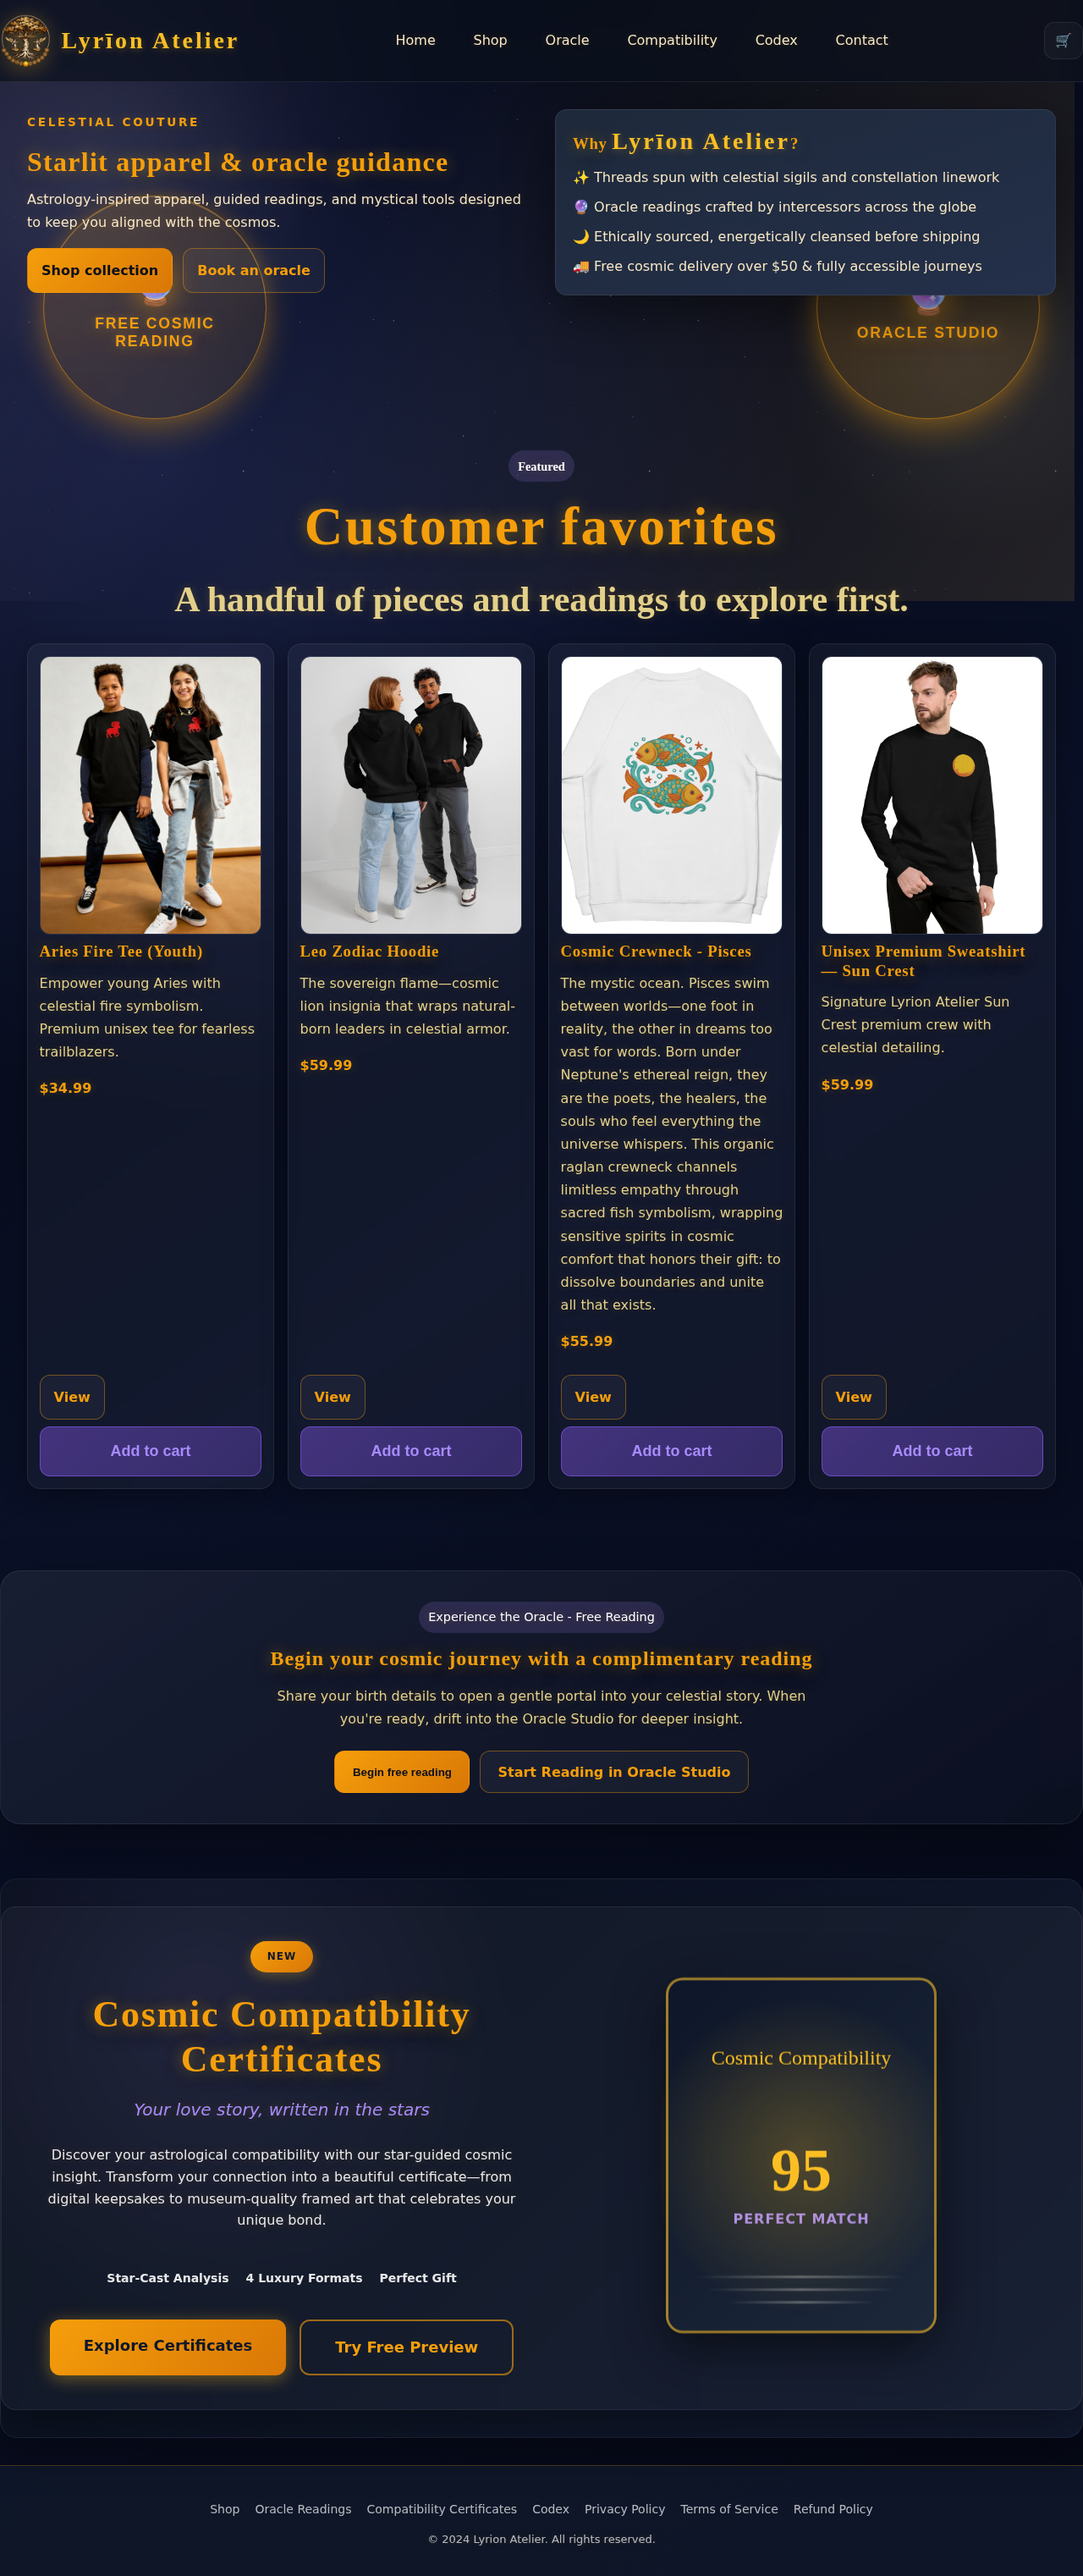
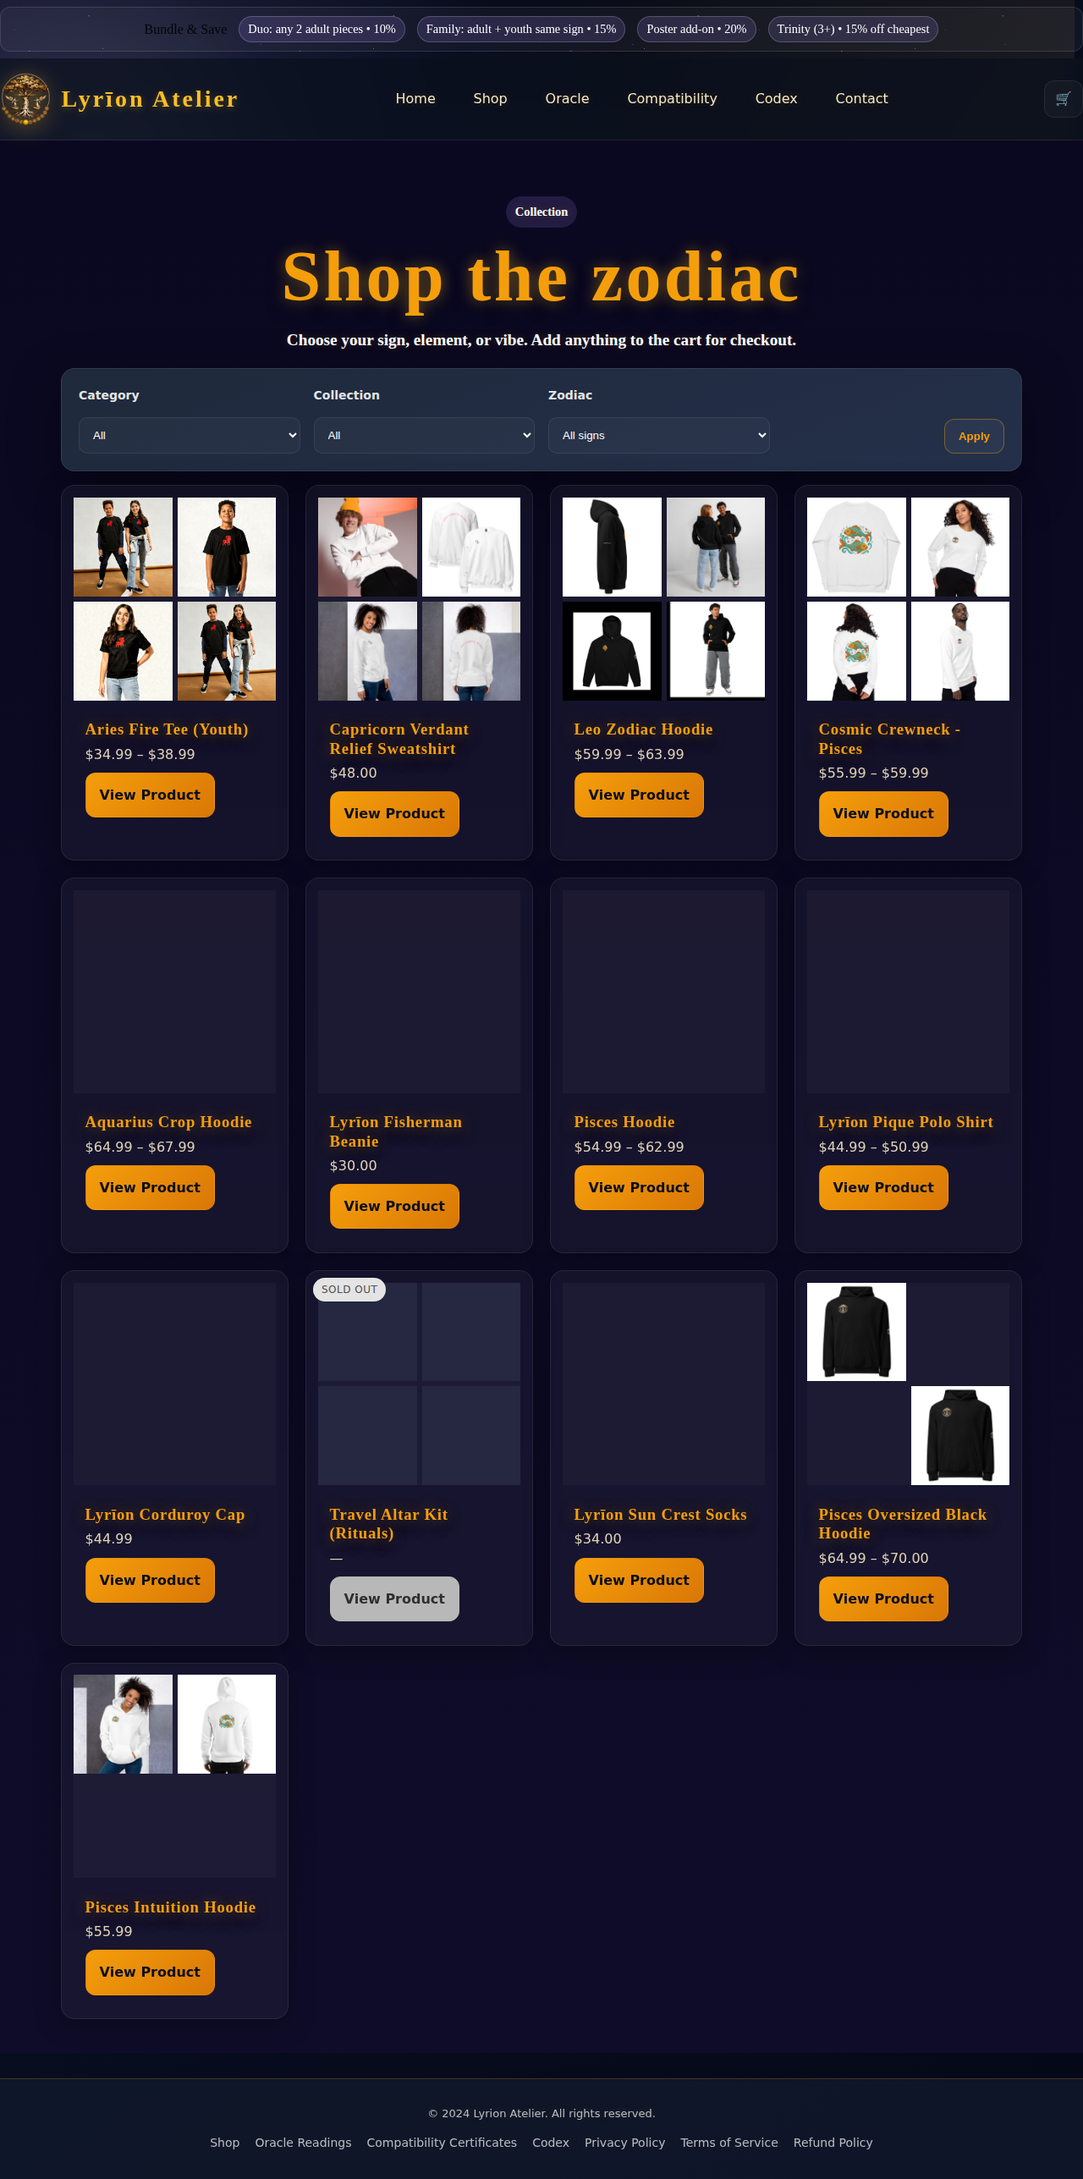
feat: improve product card galleries

diff --git a/assets/index.js b/assets/index.js
@@ -74,33 +74,87 @@ function renderFeaturedProducts() {
     return;
   }
 
+  const pickGallery = (product) => {
+    const seeds = [];
+    if (product.image) seeds.push(product.image);
+    if (Array.isArray(product.images)) seeds.push(...product.images);
+    else if (product.images && typeof product.images === 'object') {
+      if (product.images.card) seeds.push(product.images.card);
+      if (Array.isArray(product.images.gallery)) seeds.push(...product.images.gallery);
+    }
+    const normalized = seeds.filter(Boolean).map((src) => String(src).replace('_thumb', ''));
+    if (!normalized.length) normalized.push('/assets/catalog/placeholder.webp');
+    while (normalized.length < 4) normalized.push(normalized[normalized.length % normalized.length] || normalized[0]);
+    return normalized.slice(0, 4);
+  };
+
   featured.forEach(product => {
     const title = product.name || product.title || product.slug || 'Product';
     const description = product.description || product.desc || '';
     const displayPrice = extractPrice(product);
-    const imageSrc = product.image || (Array.isArray(product.images) ? product.images[0] : null);
     const canAddProduct = canAddToCart && product?.id != null && Number.isFinite(displayPrice);
-    const card = document.createElement('div');
+    const images = pickGallery(product);
+    const card = document.createElement('article');
     card.className = 'product-card';
-    card.innerHTML = `
-      <div class="product-image">
-        ${imageSrc ? `<img src="${imageSrc}" alt="${title}" loading="lazy">` : `<div class="placeholder">✨</div>`}
-      </div>
-      <div>
-        <h3>${title}</h3>
-        <p class="muted">${description}</p>
-        <p class="price">$${displayPrice.toFixed(2)}</p>
-      </div>
-      <div class="button-row tight">
-        <a class="btn btn-outline" href="${detailUrl(product)}">View</a>
-        <button class="btn btn-primary add-to-cart-btn" type="button" ${canAddProduct ? '' : 'disabled'}>Add to cart</button>
-      </div>
-    `;
+    const media = document.createElement('div');
+    media.className = 'product-card__media media';
+    const gridEl = document.createElement('div');
+    gridEl.className = 'product-card__media-grid';
+    let mediaReady = false;
+    const markReady = () => {
+      if (mediaReady) return;
+      mediaReady = true;
+      card.classList.add('media-ready');
+    };
+    images.forEach((src, idx) => {
+      const img = document.createElement('img');
+      img.src = src;
+      img.alt = `${title} image ${idx + 1}`;
+      img.loading = 'lazy';
+      img.decoding = 'async';
+      img.onerror = () => { if (img.src !== '/assets/catalog/placeholder.webp') img.src = '/assets/catalog/placeholder.webp'; };
+      img.onload = markReady;
+      gridEl.appendChild(img);
+    });
+    media.appendChild(gridEl);
+
+    const body = document.createElement('div');
+    body.className = 'product-card__body';
+    const heading = document.createElement('h3');
+    heading.textContent = title;
+    const desc = document.createElement('p');
+    desc.className = 'muted';
+    desc.textContent = description;
+    const price = document.createElement('p');
+    price.className = 'price product-card__price';
+    price.textContent = Number.isFinite(displayPrice) ? `$${displayPrice.toFixed(2)}` : 'Price unavailable';
+
+    const actions = document.createElement('div');
+    actions.className = 'product-card__actions button-row tight';
+    const viewLink = document.createElement('a');
+    viewLink.className = 'btn btn-outline';
+    viewLink.href = detailUrl(product);
+    viewLink.textContent = 'View';
+    const addButton = document.createElement('button');
+    addButton.className = 'btn btn-primary add-to-cart-btn';
+    addButton.type = 'button';
+    addButton.textContent = 'Add to cart';
+    if (!canAddProduct) addButton.disabled = true;
+
+    actions.append(viewLink, addButton);
+    body.append(heading, desc, price, actions);
+    card.append(media, body);
+    card.addEventListener('click', (e) => {
+      if (e.target.closest('button, a')) return;
+      window.location.href = detailUrl(product);
+    });
     grid.appendChild(card);
 
-    const addButton = card.querySelector('.add-to-cart-btn');
     if (addButton && canAddProduct) {
-      addButton.addEventListener('click', () => addToCart(product.id));
+      addButton.addEventListener('click', (ev) => {
+        ev.stopPropagation();
+        addToCart(product.id);
+      });
     }
   });
 }

diff --git a/js/shop-page.js b/js/shop-page.js
@@ -242,7 +242,13 @@ import { formatPrice, currencySymbol } from './price-utils.js';
       null;
     const canBuy = price?.cents !== null && !!firstVariantId;
     const image = normalizedImages.find(isUsableImage) || resolveProductImage({ ...p, slug, title }, imageMap, zodiacMap);
-    const images = normalizedImages.length ? normalizedImages : (image ? [image] : []);
+    const images = (() => {
+      const base = normalizedImages.length ? normalizedImages : (image ? [image] : []);
+      const ready = base.filter(Boolean).map(fullRes);
+      if (!ready.length) ready.push(FALLBACK);
+      while (ready.length < 4) ready.push(ready[ready.length % ready.length] || FALLBACK);
+      return ready;
+    })();
     return {
       ...p,
       id: p.id || p.sync_product_id || slug,
@@ -324,7 +330,7 @@ import { formatPrice, currencySymbol } from './price-utils.js';
 
   const createCard = (p) => {
     const slug = p.slug || slugify(p.title || p.name || '');
-    const viewUrl = `/shop/${slug}.html`;
+    const viewUrl = `/product.html?slug=${encodeURIComponent(slug)}`;
     const variant = p.defaultVariant || pickVariant(p);
     const hasPriceData = Number.isFinite(p.price) || Number.isFinite(p.priceCents) || !!p.priceLabel;
     const basePrice = hasPriceData ? null : normalizePrice(p);
@@ -362,7 +368,13 @@ import { formatPrice, currencySymbol } from './price-utils.js';
     const priceDisplay = priceRange || formatPrice(Number.isFinite(priceCents) ? priceCents : priceValue, fallbackLabel);
     const primaryImage = Array.isArray(p.images) ? p.images[0] : null;
     const resolvedImage = isUsableImage(primaryImage) ? primaryImage : resolveProductImage(p, cachedImageMap, cachedZodiacMap);
-    const imgSrc = fullRes(isUsableImage(resolvedImage) ? resolvedImage : FALLBACK);
+    const galleryImages = (() => {
+      const seeds = Array.isArray(p.images) && p.images.length ? p.images : [resolvedImage || FALLBACK];
+      const normalized = seeds.filter(Boolean).map(fullRes);
+      if (!normalized.length) normalized.push(FALLBACK);
+      while (normalized.length < 4) normalized.push(normalized[normalized.length % normalized.length] || FALLBACK);
+      return normalized.slice(0, 4);
+    })();
     const soldOut = (p?.meta?.soldOut ?? p?.soldOut) === true;
 
     const card = document.createElement('article');
@@ -376,19 +388,28 @@ import { formatPrice, currencySymbol } from './price-utils.js';
 
     const media = document.createElement('div');
     media.className = 'product-card__media media';
-    const img = document.createElement('img');
-    img.src = imgSrc || FALLBACK;
-    img.alt = p.title || p.name || 'Product image';
-    img.loading = 'lazy';
-    img.decoding = 'async';
-    img.onerror = () => { if (img.src !== FALLBACK) img.src = FALLBACK; };
-    img.onload = () => {
-      img.classList.remove('placeholder', 'blur');
+    const grid = document.createElement('div');
+    grid.className = 'product-card__media-grid';
+    let ready = false;
+    const markReady = () => {
+      if (ready) return;
+      ready = true;
+      grid.classList.remove('placeholder', 'blur');
       media.classList.remove('placeholder', 'blur');
       card.classList.add('media-ready');
       hideLoader();
     };
-    media.appendChild(img);
+    galleryImages.forEach((src, idx) => {
+      const img = document.createElement('img');
+      img.src = src || FALLBACK;
+      img.alt = `${p.title || p.name || 'Product image'} ${idx + 1}`;
+      img.loading = 'lazy';
+      img.decoding = 'async';
+      img.onerror = () => { if (img.src !== FALLBACK) img.src = FALLBACK; };
+      img.onload = markReady;
+      grid.appendChild(img);
+    });
+    media.appendChild(grid);
 
     const body = document.createElement('div');
     body.className = 'product-card__body';

diff --git a/tests/homepage.spec.ts b/tests/homepage.spec.ts
@@ -80,8 +80,9 @@ test.describe('homepage featured products', () => {
     await expect(featuredCard).toBeVisible();
     await expect(featuredCard.locator('.price')).toContainText('$34.99');
 
-    const image = featuredCard.locator('img');
-    await expect(image).toHaveAttribute('src', /youth-aries-fire-tee/i);
+    const images = featuredCard.locator('img');
+    expect(await images.count()).toBeGreaterThanOrEqual(4);
+    await expect(images.first()).toHaveAttribute('src', /youth-aries-fire-tee/i);
   });
 
   test('surfaces Leo Zodiac Hoodie in featured/bestseller grid', async ({ page }) => {
@@ -89,8 +90,9 @@ test.describe('homepage featured products', () => {
     const featuredCard = page.locator('#featured-grid .product-card', { hasText: 'Leo Zodiac Hoodie' });
     await expect(featuredCard).toBeVisible();
     await expect(featuredCard.locator('.price')).toContainText('$59.99');
-    const image = featuredCard.locator('img');
-    await expect(image).toHaveAttribute('src', /leo-zodiac-hoodie/i);
+    const images = featuredCard.locator('img');
+    expect(await images.count()).toBeGreaterThanOrEqual(4);
+    await expect(images.first()).toHaveAttribute('src', /leo-zodiac-hoodie/i);
   });
 
   test('promotes Cosmic Crewneck - Pisces as the third featured card', async ({ page }) => {
@@ -98,14 +100,19 @@ test.describe('homepage featured products', () => {
     const thirdCard = page.locator('#featured-grid .product-card').nth(2);
     await expect(thirdCard).toContainText('Cosmic Crewneck - Pisces');
     await expect(thirdCard.locator('.price')).toContainText('$55.99');
-    const image = thirdCard.locator('img');
-    await expect(image).toHaveAttribute('src', /cosmic-crewneck-pisces/i);
+    const images = thirdCard.locator('img');
+    expect(await images.count()).toBeGreaterThanOrEqual(4);
+    await expect(images.first()).toHaveAttribute('src', /cosmic-crewneck-pisces/i);
   });
 
   test('shows four featured products on homepage', async ({ page }) => {
     await page.goto(`http://localhost:${PORT}/`, { waitUntil: 'networkidle' });
     const featuredCards = page.locator('#featured-grid .product-card');
     await expect(featuredCards).toHaveCount(4);
+    const imageCounts = await featuredCards.evaluateAll((cards) =>
+      cards.map((card) => card.querySelectorAll('img').length)
+    );
+    expect(imageCounts.every((count) => count >= 4)).toBeTruthy();
   });
 
   test('opens Cosmic Crewneck details from homepage view action', async ({ page }) => {

diff --git a/js/shop-grid.js b/js/shop-grid.js
@@ -50,9 +50,19 @@ function renderCard(product) {
   const altText = product.title || product.name || 'Lyrion piece';
   const variant = pickVariant(product);
   const priceNum = resolvePrice(variant) ?? resolvePrice(product);
-  const imgSrc = pickImage(product, __IMAGE_MAP || {});
   const slug = product.slug || slugify(product.title || product.name || '');
-  const viewUrl = `/shop/${slug}.html`;
+  const viewUrl = `/product.html?slug=${encodeURIComponent(slug)}`;
+  const galleryImages = (() => {
+    const seeds = [];
+    if (product.image) seeds.push(product.image);
+    if (Array.isArray(product.images)) seeds.push(...product.images);
+    const mapped = pickImage(product, __IMAGE_MAP || {});
+    if (mapped) seeds.push(mapped);
+    const normalized = seeds.filter(Boolean);
+    if (!normalized.length) normalized.push(FALLBACK);
+    while (normalized.length < 4) normalized.push(normalized[normalized.length % normalized.length] || FALLBACK);
+    return normalized.slice(0, 4);
+  })();
 
   const card = document.createElement('article');
   card.className = 'product-card';
@@ -61,18 +71,27 @@ function renderCard(product) {
 
   const media = document.createElement('div');
   media.className = 'product-card__media media';
-  const img = document.createElement('img');
-  img.loading = 'lazy';
-  img.decoding = 'async';
-  img.alt = altText;
-  img.src = imgSrc;
-  img.onerror = () => { if (img.src !== FALLBACK) img.src = FALLBACK; };
-  img.onload = () => {
-    img.classList.remove('placeholder', 'blur');
+  const grid = document.createElement('div');
+  grid.className = 'product-card__media-grid';
+  let ready = false;
+  const markReady = () => {
+    if (ready) return;
+    ready = true;
+    grid.classList.remove('placeholder', 'blur');
     media.classList.remove('placeholder', 'blur');
     card.classList.add('media-ready');
   };
-  media.appendChild(img);
+  galleryImages.forEach((src, idx) => {
+    const img = document.createElement('img');
+    img.loading = 'lazy';
+    img.decoding = 'async';
+    img.alt = `${altText} ${idx + 1}`;
+    img.src = src;
+    img.onerror = () => { if (img.src !== FALLBACK) img.src = FALLBACK; };
+    img.onload = markReady;
+    grid.appendChild(img);
+  });
+  media.appendChild(grid);
 
   const body = document.createElement('div');
   body.className = 'product-card__body';

diff --git a/tests/shop-fallback.spec.ts b/tests/shop-fallback.spec.ts
@@ -136,13 +136,16 @@ test.describe('shop fallback art', () => {
     }, SAMPLE_PRODUCTS);
     await page.waitForSelector('.product-card', { timeout: 5000 });
 
+    const cards = page.locator('[data-shop-grid] .product-card');
+    const imageCounts = await cards.evaluateAll((els) =>
+      els.map((card) => card.querySelectorAll('img').length)
+    );
+    expect(imageCounts.every((count) => count >= 4)).toBeTruthy();
     const srcs = await page.locator('[data-shop-grid] .product-card img').evaluateAll((imgs) =>
       imgs.map((img) => (img as HTMLImageElement).getAttribute('src') || '')
     );
-    expect(srcs.length).toBeGreaterThanOrEqual(2);
     expect(srcs.every((src) => !!src)).toBeTruthy();
-    expect(srcs[0]).toContain(`http://localhost:${PORT}`);
-    expect(srcs[1]).toContain('/assets/catalog/placeholder.webp');
+    expect(srcs.some((src) => src.includes('/assets/catalog/placeholder.webp'))).toBeTruthy();
 
     const buyButtons = page.locator('[data-shop-grid] .product-card .product-buy-btn', { hasText: /view product/i });
     await expect(buyButtons).toHaveCount(2);

diff --git a/tests/shop.spec.ts b/tests/shop.spec.ts
@@ -121,12 +121,14 @@ test.describe('shop smoke test', () => {
         { timeout: 5000 }
       );
       const firstCard = cards.first();
-      await expect(firstCard.locator('img')).toBeVisible();
+      const firstCardImages = firstCard.locator('img');
+      expect(await firstCardImages.count()).toBeGreaterThanOrEqual(4);
+      await expect(firstCardImages.first()).toBeVisible();
       await expect(firstCard.locator('.product-card__title')).toBeVisible();
       const buyButtons = firstCard.locator('.product-buy-btn');
       await expect(buyButtons).toHaveCount(1);
       await expect(buyButtons.first()).toHaveText(/view product/i);
-      await expect(buyButtons.first()).toHaveAttribute('href', /shop\/.+\.html$/);
+      await expect(buyButtons.first()).toHaveAttribute('href', /product\.html\?slug=/);
       const widths = await cards.locator('img').evaluateAll((imgs) =>
         imgs.map((img) => (img as HTMLImageElement).naturalWidth)
       );

diff --git a/js/product-detail.js b/js/product-detail.js
@@ -119,7 +119,13 @@ function renderImages(images = [], productTitle = 'Product') {
   const gallery = $('#product-gallery');
   if (!gallery) return;
   gallery.innerHTML = '';
-  const sources = (Array.isArray(images) && images.length ? images : [FALLBACK_IMAGE]).map(fullRes);
+  const normalized = Array.isArray(images) ? images.filter(Boolean).map(fullRes) : [];
+  const base = normalized.length ? normalized : [FALLBACK_IMAGE];
+  const sources = [...base];
+  while (sources.length < 4) {
+    const next = base[sources.length % base.length] || FALLBACK_IMAGE;
+    sources.push(fullRes(next));
+  }
   sources.forEach((src, idx) => {
     if (!src) return;
     const img = document.createElement('img');

diff --git a/css/style.css b/css/style.css
@@ -685,6 +685,8 @@ p {
 .product-card{position:relative;border-radius:16px;background:rgba(255,255,255,0.04);box-shadow:0 6px 30px rgba(0,0,0,0.35);overflow:hidden}
 .product-card .media,
 .product-card__media{aspect-ratio:1/1;display:block;overflow:hidden;background:rgba(255,255,255,0.03)}
+.product-card__media-grid{display:grid;grid-template-columns:repeat(2,1fr);grid-auto-rows:1fr;gap:6px;height:100%}
+.product-card__media-grid img{width:100%;height:100%;object-fit:cover}
 .product-card__media img{width:100%;height:100%;object-fit:cover;display:block;opacity:0;transition:opacity .3s ease}
 .product-card.media-ready .product-card__media img{opacity:1}
 .product-card__body{padding:14px}

diff --git a/tests/product-detail.spec.ts b/tests/product-detail.spec.ts
@@ -82,6 +82,8 @@ test.describe('product detail page', () => {
     await expect(page.locator('#product-name')).toHaveText(/Aries Fire Tee/i);
     await expect(page.locator('#product-description')).toContainText(/celestial flame/i);
     await expect(page.locator('#product-price')).toContainText('$34.99');
+    const galleryImages = page.locator('#product-gallery img');
+    expect(await galleryImages.count()).toBeGreaterThanOrEqual(4);
 
     const sizeButtons = page.locator('.size-chip');
     await expect(sizeButtons).toHaveCount(5);

diff --git a/public/css/shop-fixes.css b/public/css/shop-fixes.css
@@ -1,5 +1,7 @@
 /* keep product cards tidy even if images 404 */
 .product-card img { display:block; width:100%; height:auto; }
+.product-card__media-grid { display:grid; grid-template-columns:repeat(2,1fr); grid-auto-rows:1fr; gap:6px; height:100%; }
+.product-card__media-grid img { height:100%; width:100%; object-fit:cover; }
 
 /* nuke any legacy stray thumbnail containers */
 .thumb-strip, .thumb, .stray-thumb { display:none !important; }

diff --git a/css/shop-fixes.css b/css/shop-fixes.css
@@ -1,5 +1,7 @@
 /* keep product cards tidy even if images 404 */
 .product-card img { display:block; width:100%; height:100%; object-fit:cover; }
+.product-card__media-grid { display:grid; grid-template-columns:repeat(2,1fr); grid-auto-rows:1fr; gap:6px; height:100%; }
+.product-card__media-grid img { height:100%; width:100%; object-fit:cover; }
 
 /* optional: center empty note */
 .shop-empty-note { color: #cfd8ff; text-align:center; }
